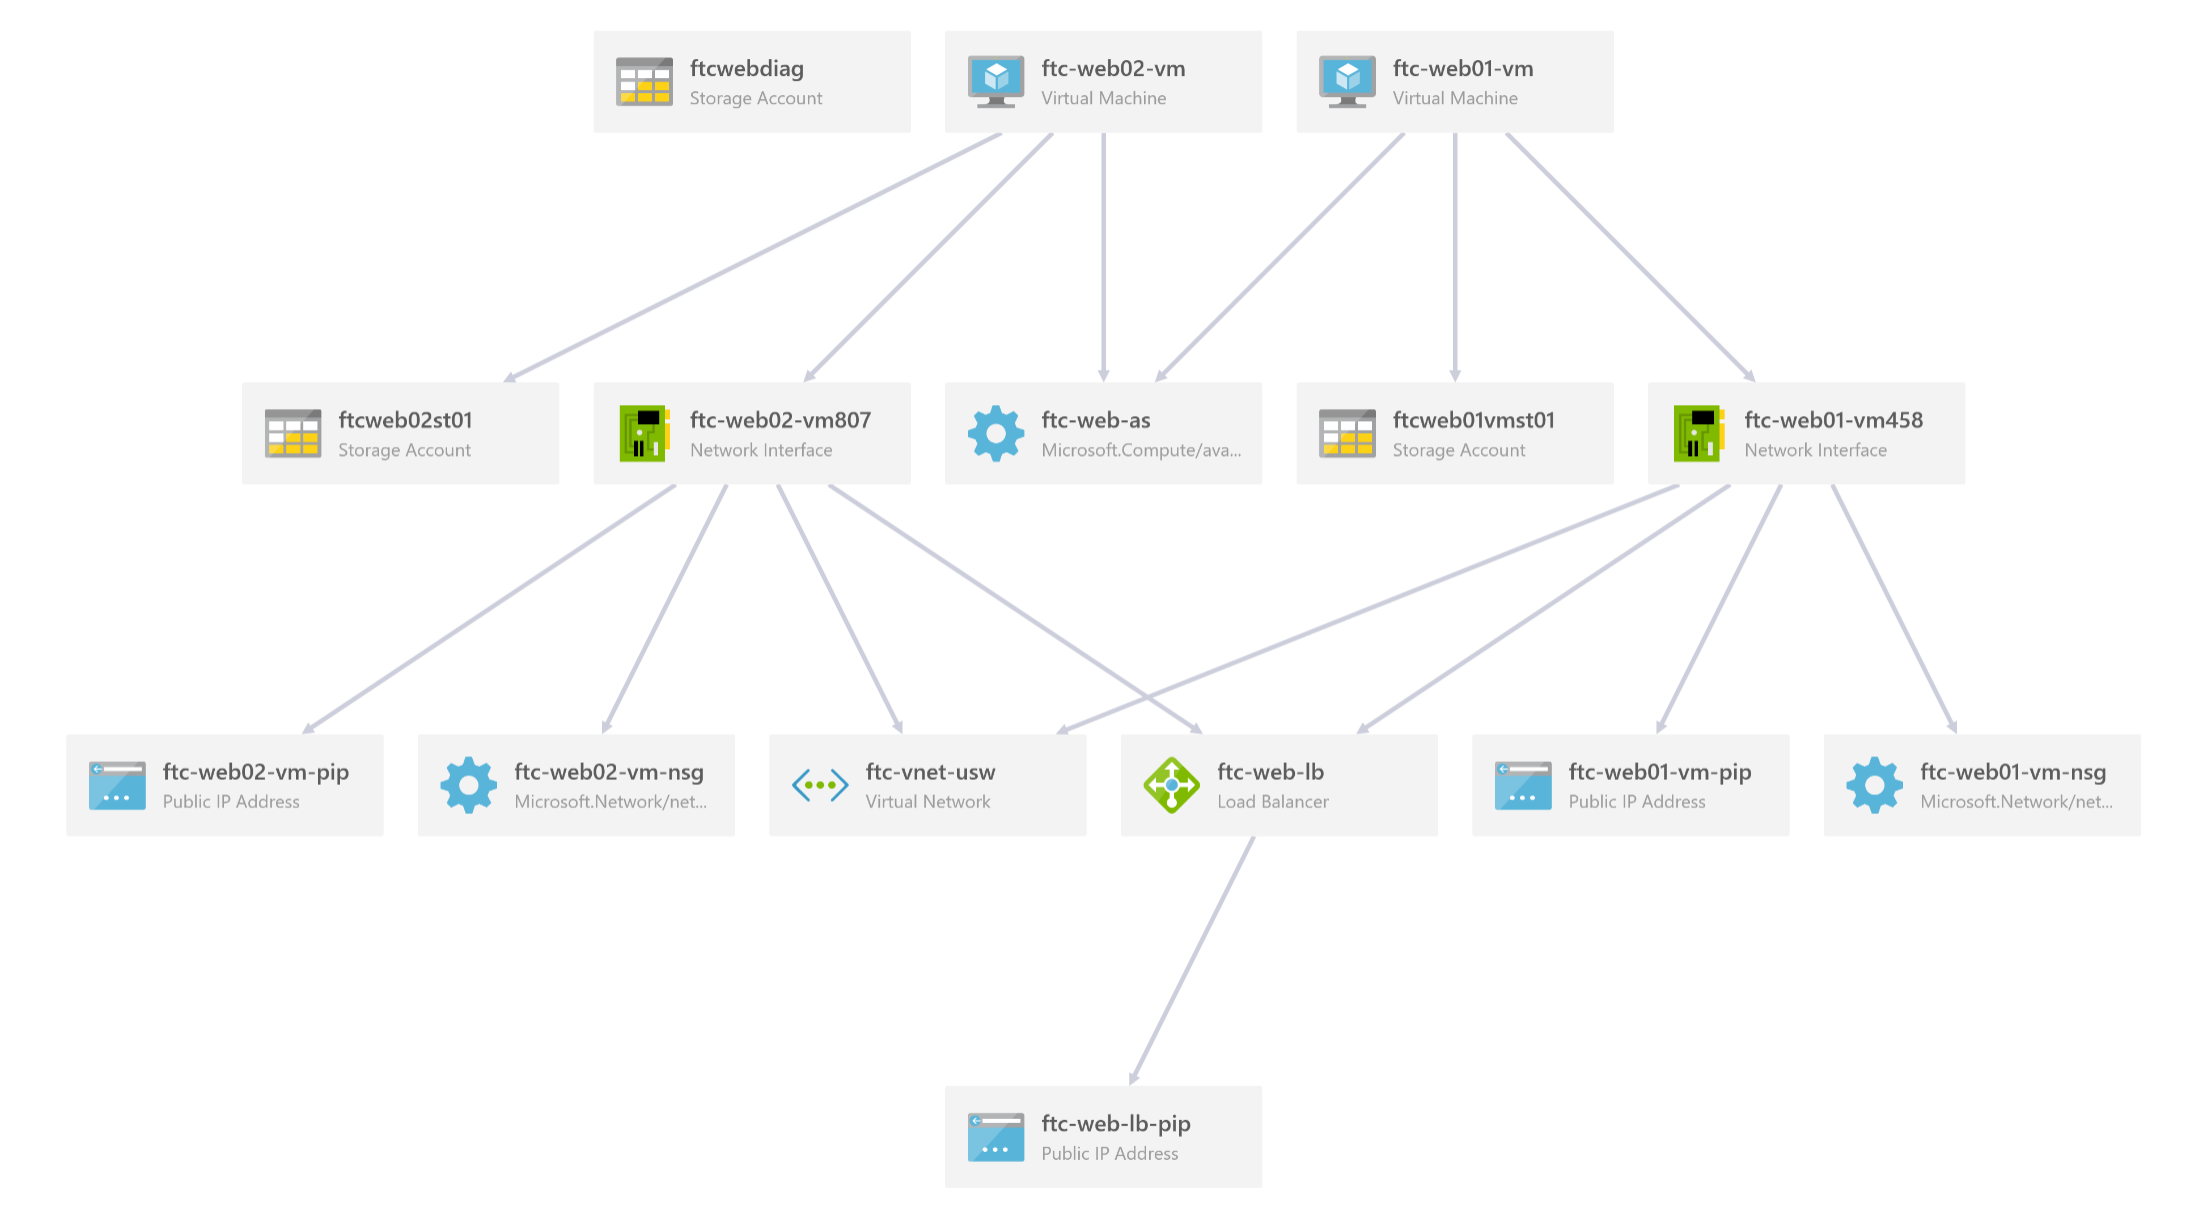
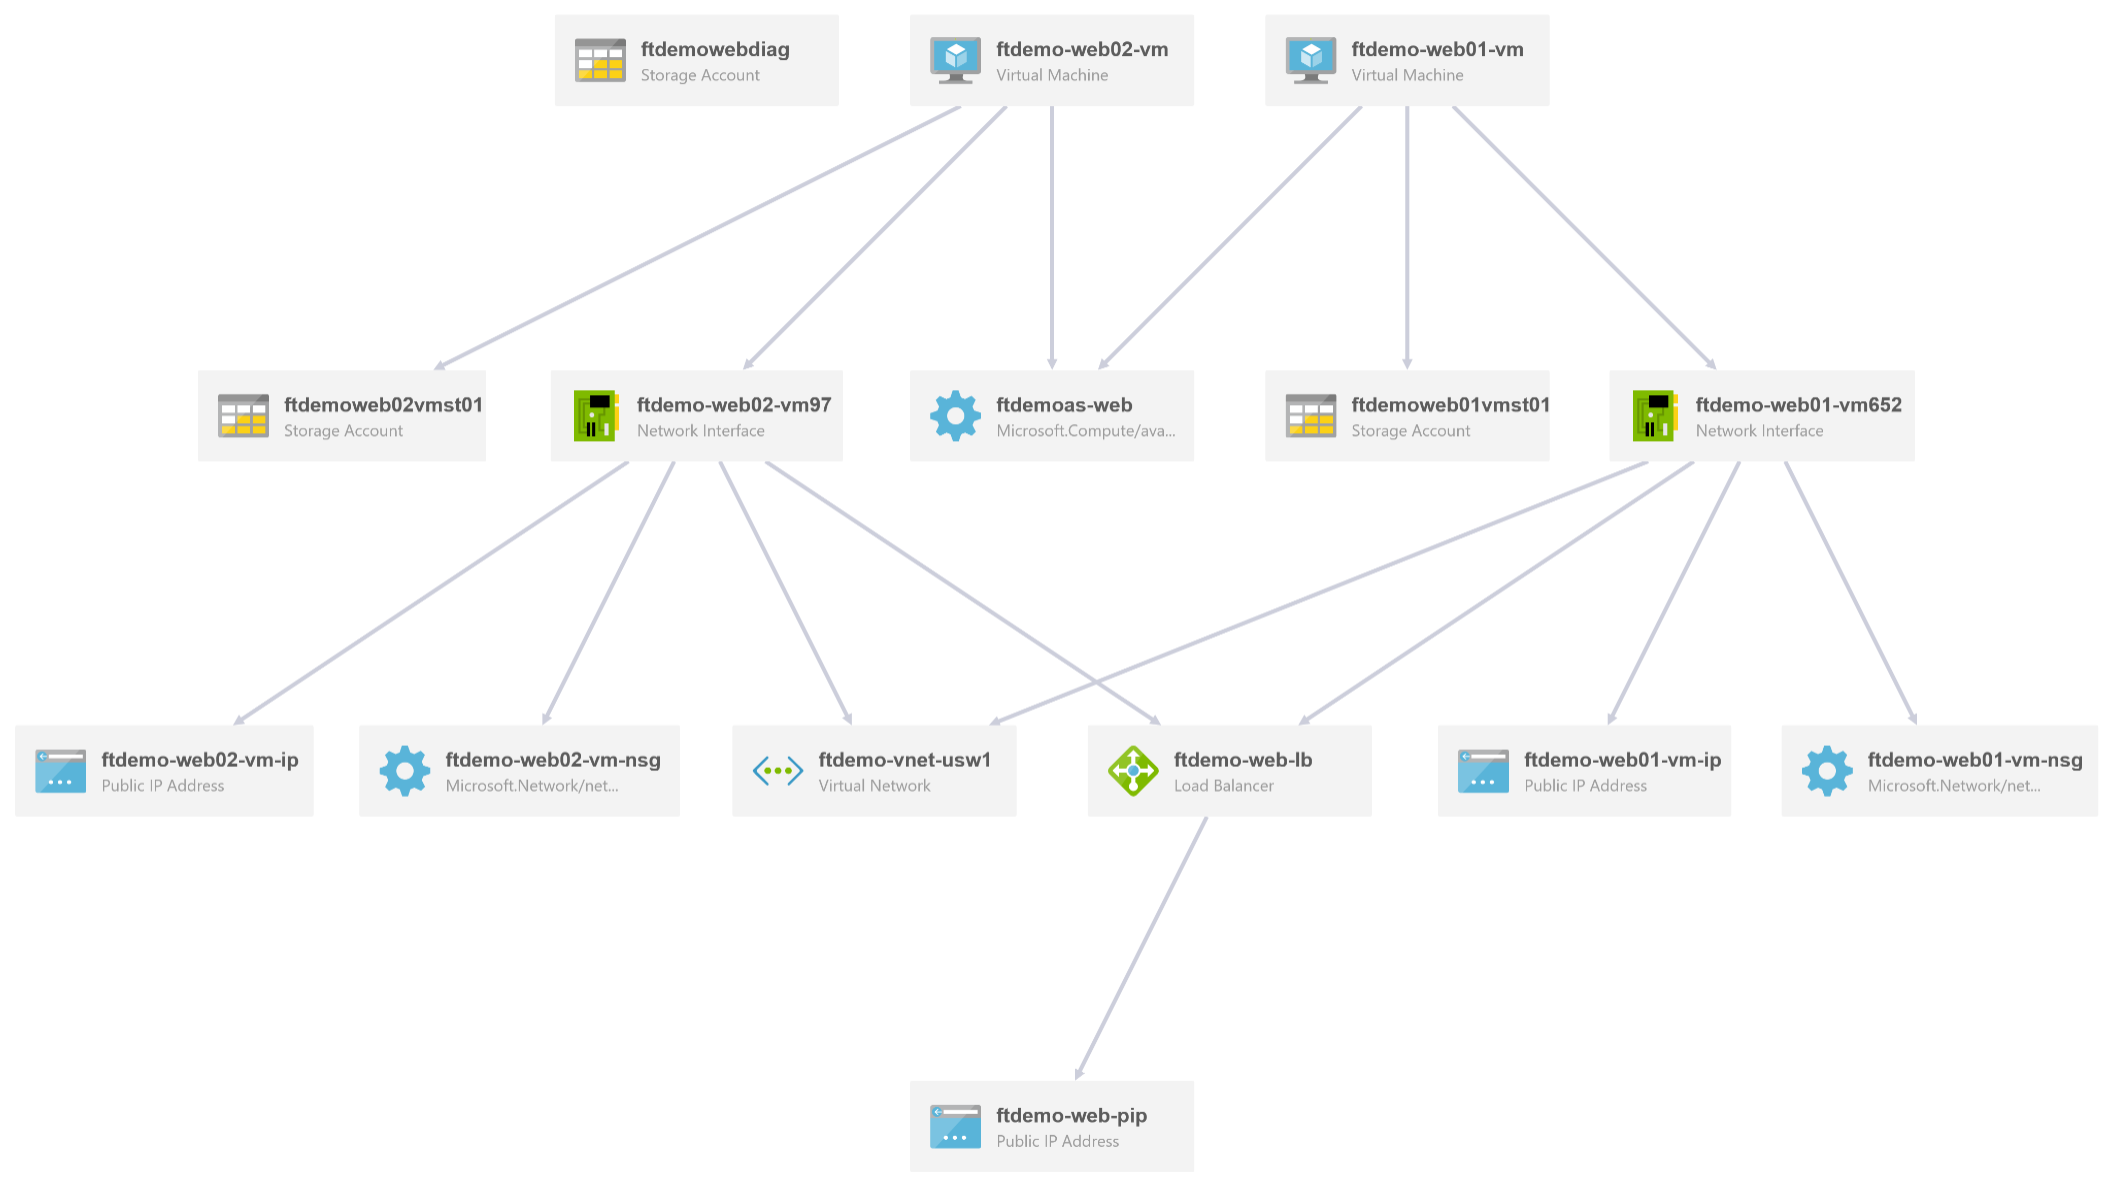
Updated POC

diff --git a/Portal/POC Scenario.md b/Portal/POC Scenario.md
@@ -30,15 +30,24 @@ Self-guided
 * Find and Pin, **Load Balancer**
 * Find and Pin, **Network Security Group**
 
+   ![Screenshot](./Images/POC-1.png)
+
 # Resource Group creation
   > Note: For all **(prefix)** references, use a globally unique name to be used throughout this walkthrough.
 
   * Create Resource Group - **(prefix)**-poc-rg
 
+   ![Screenshot](./Images/POC-2.png)
+
 # Virtual Network Creation
   * Create a VNET named **(prefix)**-vnet-usw1
   * Create a Web Subnet named **(prefix)**-web-snet
+
+   ![Screenshot](./Images/POC-3.png)
+
   * Create a App Subnet named **(prefix)**-app-snet
+
+   ![Screenshot](./Images/POC-4.png)
 
 # Virtual Machine Creation
   * Create 2 VMs
@@ -46,82 +55,152 @@ Self-guided
   * Name the 1st VM **(prefix)**-web01-vm
   * Name the 2nd VM **(prefix)**-web02-vm
   * Make sure to choose **HDD disk**
-  * For the size select **F1S**
-  * Create Storage account - **(prefix)**web01vmst01
-  * Create Storage account - **(prefix)**web02vmst01
-  * Create availability set - **(prefix)**-as-web
+
+     ![Screenshot](./Images/POC-5.png)
+
+  * For the size select **D1_V2**
+  * Create Storage account - (**prefix**)web01vmst01
+  * Create Storage account - (**prefix**)web02vmst01
+  * Create availability set - (**prefix**)as-web
+  
+   ![Screenshot](./Images/POC-6.png)
+
+  * Create Diagnostics Storage account named (**prefix**)webdiag
+
+   ![Screenshot](./Images/POC-7.png)
   > Note: During 2nd VM creation pick the previously created Availability set
-  * Create Diagnostics Storage account named **(prefix)**webdiag
+
+   ![Screenshot](./Images/POC-8.png)
 
 # Install IIs on VMs
-  * From Virtual Machine blade, select 1st VM, click **Connect** and login to machine
+  * From Virtual Machine blade, select the 1st VM, click **Connect** and login to machine
+
+   ![Screenshot](./Images/POC-9.png)
+
   * From the **Server Manager Dashboard**, select **Add Roles and Features**
+
+   ![Screenshot](./Images/POC-10.png)
+
   * Click **Next** on **Before you Begin**
   * Click **Next** on **Installation Type**
   * Click **Next** on **Server Selection**
-  * On **Server Roles**, select **IIS**, click **Next**
-  * Click **Next** and accept all the defaults to finish Installation
-  * From the **Start** menu, type **IIS**, and Launch
-  * In the **Connections** panel, **Right-Click** on **Default Web Site**, and select **Switch to Content View**
+  * On **Server Roles**, select **Web Server IIS**, click **Next**
+  * On **Add Roles and Features** popup, click **Add Features**
+  * On **Features**, click **Next**
+  * On **Web Server Role(IIS)**, click **Next**
+  * On **Role Services**, click **Next**
+  * On  **Confirmation**, click **Install**
+
+  ![Screenshot](./Images/POC-11.png)
+
+  >Note: Wait for installation to complete
+ 
+  * On  **Confirmation**, click **Close**
+  * From the **Start** menu, type **IIS**, and Launch IIS manager
+  * In the **Connections** panel, drill down to **Sites**
+  * On **Default Web Site**, **Right-Click** and select **Switch to Content View**
   * **Right-Click** anywhere in panel and selct **Explore**
-  * From the **Windows Explorer**, **Right-Click** on the file **IISStart.html**, and open in Notepad.
-  * Find the follow line right after the **body** tag. 
-```
+  * From the **Windows Explorer**, **Right-Click** on the file **IISStart.html**, and open in **Notepad**.
+
+  ![Screenshot](./Images/POC-12.png)
+
+  * Find the follow line right after the <**body**> tag and add the following.
+
+  ```
 For VM1: <h1>This is Web Server 01</h1>
 For VM2: <h1>This is Web Server 02</h1>
-```
-  * From Virtual Machine blade, select 2nd VM, click **Connect** and login to machine and repeat all the steps above.
+``` 
+
+  ![Screenshot](./Images/POC-13.png)
+
+  * From Virtual Machine blade, select the 2nd VM, click **Connect** and login to machine and repeat all the steps above.
+
+  ![Screenshot](./Images/POC-14.png)
 
 # Create Load Balancer
   * From the left panel on the Azure Portal, select **Load Balancers**.
   * Click on **Add**
   * Name: **(prefix)**-web-lb
   * Click **Public IP Address**, click **New**
-  * Enter name **(prefix)**-web-pip, set assignment to **Static**, click **Ok**
-  * Select **Use Existing** for **Resource Group**, i.e. **(prefix)**-poc-rg, click **Create**
+  * Enter name **(prefix)-web-pip**, set assignment to **Static**, click **Ok**
+
+     ![Screenshot](./Images/POC-15.png)
+
+  * Select **Use Existing** for **Resource Group**, i.e. **(prefix)-poc-rg**, click **Create**
+
+     ![Screenshot](./Images/POC-16.png)
+
+  * After the **Load Balancer** is created, select the one you added.
+
+     ![Screenshot](./Images/POC-17.png)
+
   * Under **Settings** select **Probes**, click **Add**.
-  * Enter name **(prefix)**-web-prob, click **Ok**
+  * Enter name **(prefix)-web-prob**, leaving all the defaults, click **Ok**
+
+   ![Screenshot](./Images/POC-18.png)
 
 # Add the VMs to Load Balancer
   * Under **Settings** select **Backend pools**, click **Add**.
-  * Enter name **(prefix)**-web-pool.
-  * Select **Availability set**, click **(prefix)**-web-as.
-  * Click **Add a virtual machine**, click **Select** and check **both** VMs, click **Ok**
+  * Enter name **(prefix)-web-pool**.
+  * Click **Add a virtual machine**.
+
+   ![Screenshot](./Images/POC-19.png)
+
+  * Select **Availability set**, click **(prefix)-web-as**.
+  * Click **Choose the virtual machines**, click and **check** both VMs, click **Select**
+
+   ![Screenshot](./Images/POC-20.png)
+
+  * Click **Ok**
+  * Click **Ok**
+
+   ![Screenshot](./Images/POC-21.png)
 
   * Under **Settings** select **Load balancing rules**, click **Add**.
-  * Enter name **(prefix)**--http-lbr
+  * Enter name **(prefix)-http-lbr**.
     *  Protocol: **TCP**
     *  Port:**80**
     *  Backend port: 80
-    *  Backend pool: **(prefix)**-web-pool(2VMs)
-    *  Probe: **(prefix)**-web-prob(HTTP:80)
+    *  Backend pool: **(prefix)-web-pool(2VMs)**
+    *  Probe: **(prefix)-web-prob(HTTP:80)**
     *  Session Persistence: **None**
     *  Idle timeout (min):**4**
+    *  Click **Ok**
+
+   ![Screenshot](./Images/POC-22.png)
 
 # Update the NSG (inbound security rule)
-I## Virtual machine #1
-  * From the left panel on the Azure Portal, select **Virtual machines**, then select **(prefix)**-web01-vm.
+## Virtual machine #1
+  * From the left panel on the Azure Portal, select **Virtual machines**, then select **(prefix)-web01-vm**.
   * Under **Settings** select **Network Interfaces** 
-  * Click on **(prefix)**-web01-vm-nsg.
+  * Click on **(prefix)-web01-vm-nsg**.
   * Under **Settings** select **Network Security Groups**.
-  * Click on **(prefix)**-web01-vm-nsg.
+  * Under **Network Security Group**, click on **(prefix)-web01-vm-nsg**.
+
+   ![Screenshot](./Images/POC-23.png)
+
   * Under **Settings**, click on **Inbound Security Rules**.
-  * Click **Add**, Enter name **(prefix)**-web01-vm-nsgr-http-allow
+  * Click **Add**, Enter name **(prefix)-web01-vm-nsgr-http-allow**
     *  Priority:**1010**
     *  Source: **any**
     *  Service: **HTTP**
     *  Protocol: **TCP**
     *  Port range: **80**
     *  Action: **Allow**
+
+   ![Screenshot](./Images/POC-24.png)
 
 ## Virtual machine #2
-  * From the left panel on the Azure Portal, select **Virtual machines*, then select **(prefix)**-web02-vm.
+  * From the left panel on the Azure Portal, select **Virtual machines**, then select **(prefix)-web02-vm**.
   * Under **Settings** select **Network Interfaces** 
-  * Click on **(prefix)**-web02-vm-nsg.
+  * Click on **(prefix)-web02-vm-nsg**.
   * Under **Settings** select **Network Security Groups**.
-  * Click on **(prefix)**-web02-vm-nsg.
+
+  ![Screenshot](./Images/POC-25.png)
+
+  * Click on **(prefix)-web02-vm-nsg**.
   * Under **Settings**, click on **Inbound Security Rules**.
-  * Click **Add**, Enter name **(prefix)**-web02-vm-nsgr-http-allow
+  * Click **Add**, Enter name **(prefix)-web02-vm-nsgr-http-allow**
     *  Priority:**1010**
     *  Source: **any**
     *  Service: **HTTP**
@@ -129,27 +208,37 @@ I## Virtual machine #1
     *  Port range: **80**
     *  Action: **Allow**
 
+   ![Screenshot](./Images/POC-26.png)
+
 # Assign DNS name to Load Balancer
-  * From the left panel on the Azure Portal, select **Load Balancers**.
-  * Select **(prefix)**-web-lb.
-  * Click on **Overview**.
-  * Click **Public IP Address**
-  * Select **Configuration**
-  * Under **Settings**, select **Configuration**. 
+  * From the left panel on the Azure Portal, select **Public IP sddresses**.
+  * Select **(prefix)-web-pip**.
+  * Under Settings, click on **Configuration**.
+  * Click **Associated to**
   * Under DSN name enter **(prefix)**.
-      * i.e. http://**(prefix)**.westus.cloudapp.azure.com/
+      * i.e. http://**(prefix)**.westus2.cloudapp.azure.com/
+
+   ![Screenshot](./Images/POC-27.png)
 
 # Testing 
-  * Browse to load balancer public IP (or) http://**(prefix)**.westus.cloudapp.azure.com/
+  * Browse to load balancer public IP (or) **http://(prefix).westus2.cloudapp.azure.com/**
   * You will see IIS server default page, with either VM1 or VM2.
   * If you see VM1, then RDP1 into VM1, stop Default Web Site in IIS. Refresh web page, you will see VM2. Load balancer detects VM1 is down and redirects traffic to VM2.
 
+   ![Screenshot](./Images/POC-28.png)
+
 # Automation Scripts (ARM Template)
   * From the left panel on the Azure Portal, select **Resource Groups**.
-  * Select **(prefix)**-poc-rg.
+  * Select **(prefix)-poc-rg**.
   * Click **Download** | **Save As** | (select location)
+
+   ![Screenshot](./Images/POC-29.png)
+
   * After download, **Extract All** to (select location)
-  * Visulize your Architecture with **ArmViz**
+  
+  ![Screenshot](./Images/POC-30.png)
+
+# Visulize your Architecture with **ArmViz**
   * Open browser and goto **http://armviz.io** to view the template.
 
    ![Screenshot](./Images/ArmVizDiagram.png)
